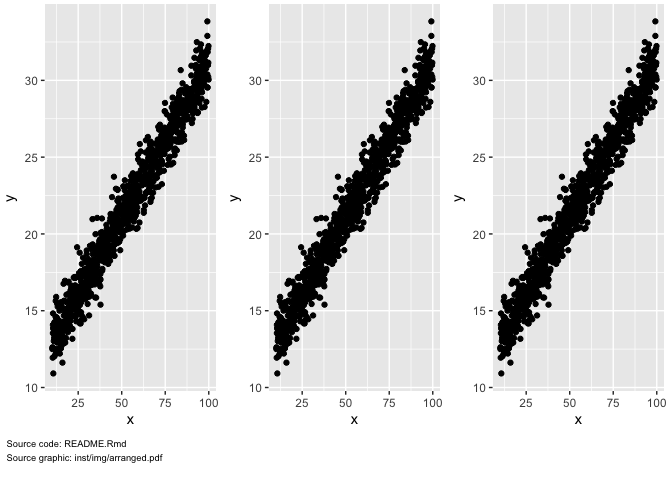
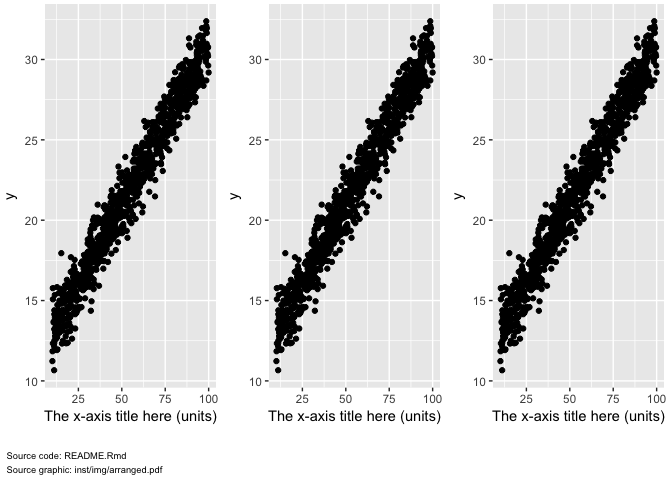
tweak annotation spacing

diff --git a/README.md b/README.md
@@ -18,7 +18,8 @@ Plots get drawn with annotations
 ================================
 
 ``` r
-p <- ggplot(data = data, aes(x,y)) + geom_point()
+p <- ggplot(data = data, aes(x,y)) + geom_point() +
+  xlab("The x-axis title here (units)")
 
 mrggdraw(p, Script, "ggplot")
 ```
